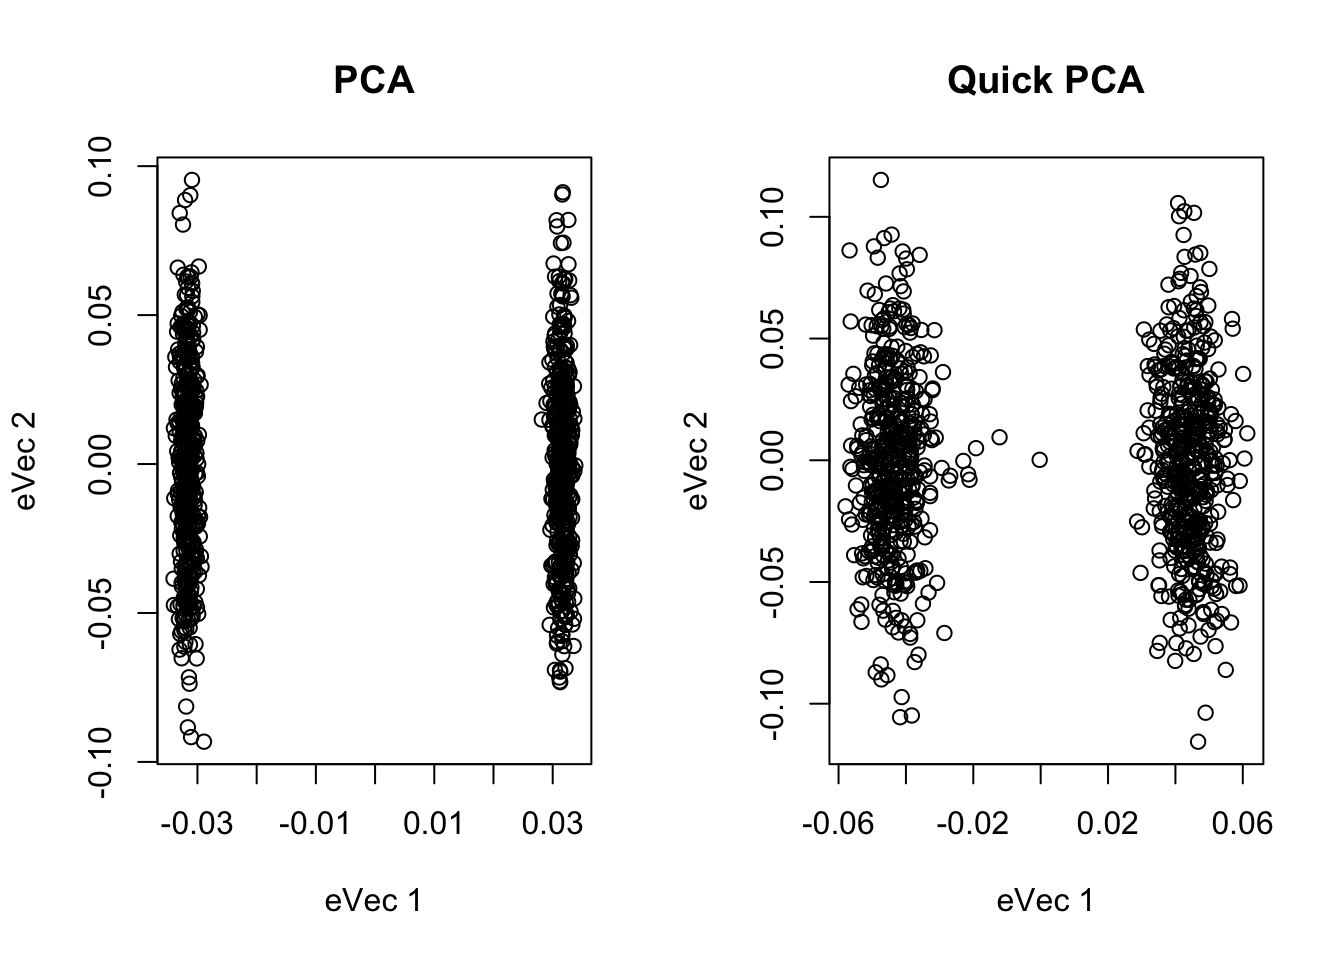
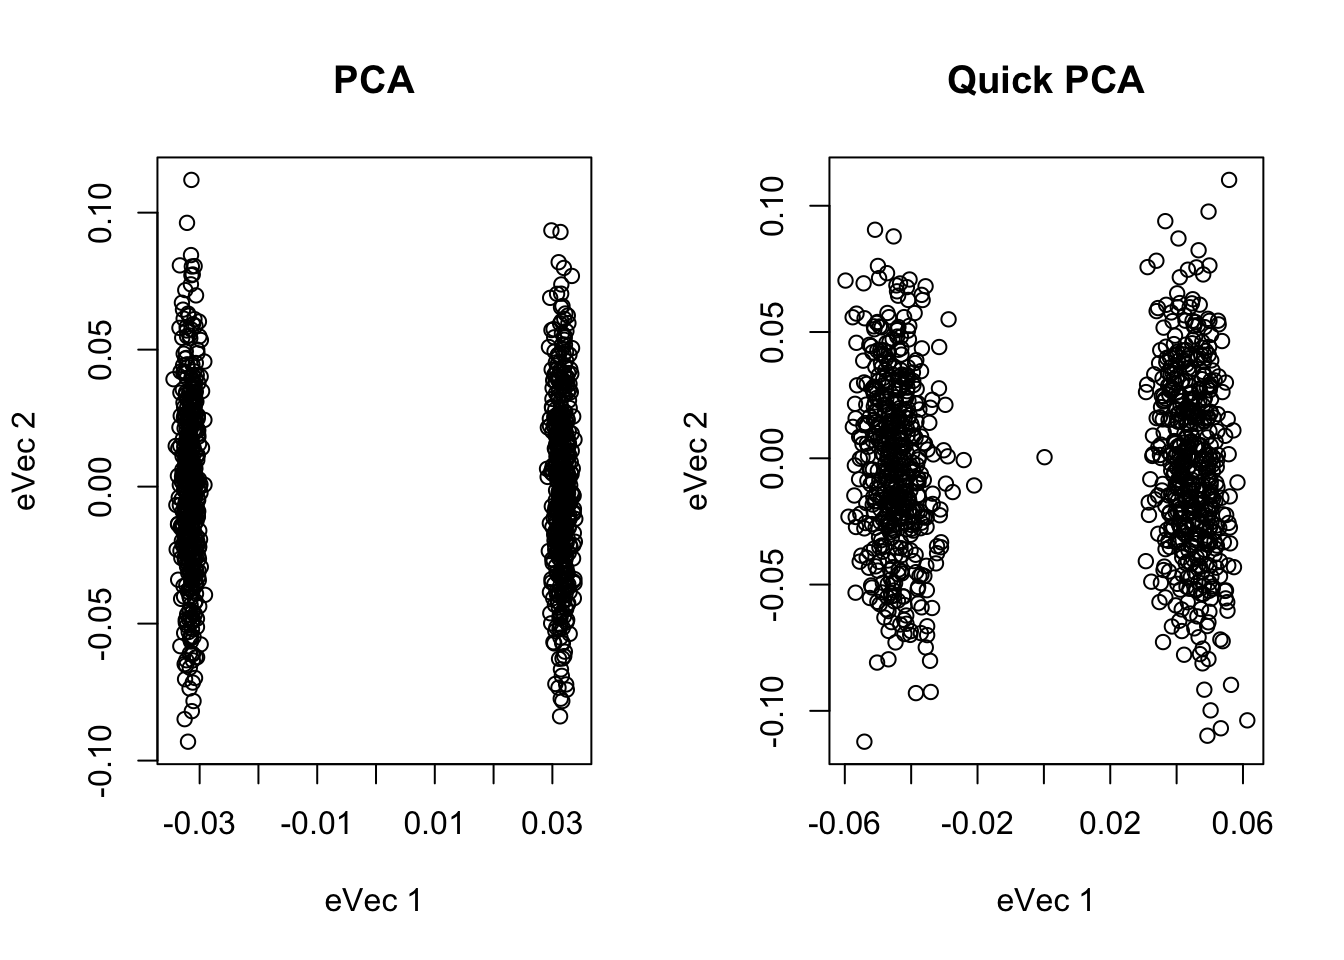
quick pca updated

diff --git a/app-1.html b/app-1.html
@@ -25,15 +25,15 @@
 <meta name="author" content="Guo-Bo Chen [chen.guobo@foxmail.com]">
 
 
-<meta name="date" content="2019-10-16">
+<meta name="date" content="2019-10-29">
 
   <meta name="viewport" content="width=device-width, initial-scale=1">
   <meta name="apple-mobile-web-app-capable" content="yes">
   <meta name="apple-mobile-web-app-status-bar-style" content="black">
   
   
-<link rel="prev" href="IBD-fam.html">
-
+<link rel="prev" href="conclusion.html">
+<link rel="next" href="references.html">
 <script src="libs/jquery-2.2.3/jquery.min.js"></script>
 <link href="libs/gitbook-2.6.7/css/style.css" rel="stylesheet" />
 <link href="libs/gitbook-2.6.7/css/plugin-table.css" rel="stylesheet" />
@@ -210,7 +210,9 @@ code span.wa { color: #60a0b0; font-weight: bold; font-style: italic; } /* Warni
 <li class="chapter" data-level="9.1" data-path="IBD-fam.html"><a href="IBD-fam.html#he-association"><i class="fa fa-check"></i><b>9.1</b> HE association</a></li>
 <li class="chapter" data-level="9.2" data-path="IBD-fam.html"><a href="IBD-fam.html#ibd-table"><i class="fa fa-check"></i><b>9.2</b> IBD table</a></li>
 </ul></li>
-<li class="chapter" data-level="10" data-path="app-1.html"><a href="app-1.html#app-1"><i class="fa fa-check"></i><b>10</b> Appendix quick pca</a></li>
+<li class="chapter" data-level="10" data-path="app-2.html"><a href="app-2.html"><i class="fa fa-check"></i><b>10</b> Appendix quick pca</a><ul>
+<li class="chapter" data-level="10.1" data-path="app-2.html"><a href="app-2.html#quck-pca-method-for-snp-matrix"><i class="fa fa-check"></i><b>10.1</b> Quck PCA method for snp matrix</a></li>
+</ul></li>
 <li class="divider"></li>
 <li><a href="https://gc5k.github.io" target="blank">Published with bookdown</a></li>
 
@@ -232,75 +234,141 @@ code span.wa { color: #60a0b0; font-weight: bold; font-style: italic; } /* Warni
 
             <section class="normal" id="section-">
 <div id="app-1" class="section level1">
-<h1><span class="header-section-number">Chapter 10</span> Appendix quick pca</h1>
-<p>See PLoS ONE, 2014, 9:e93766</p>
-<pre class="sourceCode r"><code class="sourceCode r"><span class="kw">library</span>(MASS)</code></pre>
-<pre><code>## Warning: package &#39;MASS&#39; was built under R version 3.4.4</code></pre>
-<pre class="sourceCode r"><code class="sourceCode r">N=<span class="dv">1000</span> <span class="co">#sample size</span>
-M=<span class="dv">2000</span> <span class="co">#SNP</span>
-X=<span class="kw">matrix</span>(<span class="dv">0</span>, N, M) <span class="co">#SNP matrix</span>
+<h1><span class="header-section-number">Chapter 7</span> Appendix 1</h1>
+<div id="app:ld" class="section level2">
+<h2><span class="header-section-number">7.1</span> Notes on linkage disequilibrium</h2>
+<p>For the haplotypes, as tabulated below, consisting of locus 1, which has alleles <span class="math inline">\(A\)</span> and <span class="math inline">\(a\)</span>, and locus 2, which has alleles <span class="math inline">\(B\)</span> and <span class="math inline">\(b\)</span>,</p>
+<table>
+<thead>
+<tr class="header">
+<th align="center"></th>
+<th align="center"><span class="math inline">\(B\)</span></th>
+<th align="center"><span class="math inline">\(b\)</span></th>
+<th align="center"></th>
+</tr>
+</thead>
+<tbody>
+<tr class="odd">
+<td align="center"><span class="math inline">\(A\)</span></td>
+<td align="center"><span class="math inline">\(P_{AB}=P_A \times P_B + D\)</span></td>
+<td align="center"><span class="math inline">\(P_{Ab}=P_A \times P_b - D\)</span></td>
+<td align="center"><span class="math inline">\(P_A\)</span></td>
+</tr>
+<tr class="even">
+<td align="center"><span class="math inline">\(a\)</span></td>
+<td align="center"><span class="math inline">\(P_{aB}=P_a \times P_B - D\)</span></td>
+<td align="center"><span class="math inline">\(P_{ab}=P_a \times P_b + D\)</span></td>
+<td align="center"><span class="math inline">\(P_a\)</span></td>
+</tr>
+<tr class="odd">
+<td align="center"></td>
+<td align="center"><span class="math inline">\(P_B\)</span></td>
+<td align="center"><span class="math inline">\(P_b\)</span></td>
+<td align="center"></td>
+</tr>
+</tbody>
+</table>
+<p>It is a typical <span class="math inline">\(2\times2\)</span> contingency table, once one of these four cells is fixed, other three are all known. Consequently, we can implement Fisher’s Exact test for this table.
+However, given the current biotechnology, <span class="math inline">\(D\)</span> is often unknown. But given the correlation, <span class="math inline">\(\rho_{1,2}\)</span>, of a pair of markers, we know that
+<span class="math display">\[\rho_{1,2}=\frac{D_{1,2}}{\sqrt{P_AP_aP_BP_b}}\]</span></p>
+<p>In simulation, it is very easy to simulate LD given the correlation.</p>
+<p>Calculate <span class="math inline">\(D_{1,2}=\rho_{1,2}\sqrt{P_AP_aP_BP_b}\)</span> first.</p>
+<p>Depending on the allele at locus 1, the probabilities of observing allele <span class="math inline">\(B\)</span> and <span class="math inline">\(b\)</span> are <span class="math inline">\(P(B|A)=\frac{P_{AB}}{P_{A}} =\frac{P_A\times P_B+D}{P_A}\)</span>, <span class="math inline">\(P(b|A)=1-P(B|A)\)</span>, <span class="math inline">\(P(b|a)=\frac{P_{ab}}{P_a} =\frac{P_a\times P_b+D}{P_a}\)</span>, and <span class="math inline">\(P(B|a)=1-P(B|a)\)</span>, respectively. So, the recombination can be defined as <span class="math inline">\(\frac{P(B|A)}{P(B|A) + P(b|A)}=P_B + \frac{D}{P_A}\)</span>.</p>
+</div>
+<div id="the-maximal-value-rho_ab" class="section level2">
+<h2><span class="header-section-number">7.2</span> The maximal value <span class="math inline">\(\rho_{AB}\)</span></h2>
+<p>Assuming <span class="math inline">\(P_A \leq P_B \leq 0.5\)</span>, the maximal of <span class="math inline">\(\rho_{l_1l_2}\)</span> reaches when allele <span class="math inline">\(A\)</span> is <span class="math inline">\(a\)</span> subset of <span class="math inline">\(B\)</span> linage so that <span class="math inline">\(P_{AB}=P_{A}\)</span>, because (see PLoS Genet 2(9): e142)
+<span class="math display">\[\rho_{1,2}=\frac{P_{AB}-P_{A}P_{B}}{\sqrt{P_A P_a P_B P_b}}=\frac{P_A(1-P_B)}{\sqrt{P_A P_a P_B P_b}}=\sqrt{\frac{P_AP_b}{P_B P_a}} \leq 1\]</span>
+The maxima of <span class="math inline">\(D=min(P_AP_b, P_BP_a)\)</span>.</p>
+<p>The conditional probability for a pair of biallelic loci</p>
+<table>
+<thead>
+<tr class="header">
+<th align="center"></th>
+<th align="center"><span class="math inline">\(a_l\)</span></th>
+<th align="center"><span class="math inline">\(A_l\)</span></th>
+<th align="center"></th>
+</tr>
+</thead>
+<tbody>
+<tr class="odd">
+<td align="center"><span class="math inline">\(a_k\)</span></td>
+<td align="center"><span class="math inline">\(r_{kl}=q_l + \frac{D_{kl}}{q_k}\)</span></td>
+<td align="center">1-<span class="math inline">\(r_{kl}=p_l - \frac{D_{kl}}{q_k}\)</span></td>
+<td align="center"><span class="math inline">\(q_k\)</span></td>
+</tr>
+<tr class="even">
+<td align="center"><span class="math inline">\(A_k\)</span></td>
+<td align="center">1-<span class="math inline">\(R_{kl}=q_l - \frac{D_{kl}}{p_k}\)</span></td>
+<td align="center"><span class="math inline">\(R_{kl}=p_l +\frac{D_{kl}}{p_k}\)</span></td>
+<td align="center"><span class="math inline">\(p_k\)</span></td>
+</tr>
+<tr class="odd">
+<td align="center"></td>
+<td align="center"><span class="math inline">\(q_l\)</span></td>
+<td align="center"><span class="math inline">\(p_l\)</span></td>
+<td align="center"></td>
+</tr>
+</tbody>
+</table>
+</div>
+<div id="ld-and-recombination-fraction" class="section level2">
+<h2><span class="header-section-number">7.3</span> LD and recombination fraction</h2>
+<p>It is sometimes useful to simulate <span class="math inline">\(F_2\)</span> population given known LD between any pair of markers. Below is the procedure for doing that.</p>
+<p>For a pair of loci, the correlation is the function of their recombination function
+<span class="math display">\[\rho_{1,2}=1-2c_{1,2}\]</span></p>
+<p>In addition, the correlation is also the function of LD
+<span class="math display">\[\rho_{1,2}=\frac{D_{1,2}}{\sqrt{P_AP_aP_BP_b}}\]</span></p>
+<p>So given the allele frequency of 0.5 and the markers are evenly distributed, <span class="math inline">\(c_{1,2}=0.5-2D_{1,2}\)</span>, and their corresponding genetic distance is <span class="math inline">\(d_{1,2}=-\frac{1}{2}ln(1-2c_{1,2})=-\frac{1}{2}ln(4D_{1,2})\)</span>
+given <code>Haldane map function</code>.</p>
+<p>Under the Haldane map function, the recombination between locus 1 and 3 is <span class="math inline">\(c_{1,3}=\frac{1}{2}[1-e^{-2(d_{1,2}+d_{2,3})}]=\frac{1}{2}[1-e^{2ln(4D_{1,2})}]\)</span>
+Then the correlation between the locus 1 and 3 is <span class="math inline">\(\rho_{1,3}=1-2c_{1,3}=e^{2ln(4D_{1,2})}\)</span>
+And, their corresponding LD is
+<span class="math inline">\(D_{1,3}=\sqrt{P_AP_aP_BP_b}e^{ln(4D_{1,2})}=0.25e^{2ln(4D_{1,2})}\)</span></p>
+<p>In general, <span class="math inline">\(D_{l_1l_2}=0.25e^{|l_1-l_2|ln(4D_{1,2})}\)</span>.</p>
+<pre class="sourceCode r"><code class="sourceCode r">A =<span class="st"> </span><span class="kw">seq</span>(<span class="fl">0.01</span>, <span class="fl">0.5</span>, <span class="fl">0.01</span>)
+B =<span class="st"> </span><span class="kw">seq</span>(<span class="fl">0.01</span>, <span class="fl">0.5</span>, <span class="fl">0.01</span>)
 
-<span class="co">#simulating snp</span>
-<span class="cf">for</span>(i <span class="cf">in</span> <span class="dv">1</span><span class="op">:</span>M) {
-  p1=<span class="kw">runif</span>(<span class="dv">1</span>, <span class="fl">0.1</span>, <span class="fl">0.9</span>)
-  p2=<span class="dv">1</span><span class="op">-</span>p1
-  X[<span class="dv">1</span><span class="op">:</span>(N<span class="op">/</span><span class="dv">2</span>),i]=<span class="kw">rbinom</span>(N<span class="op">/</span><span class="dv">2</span>, <span class="dv">2</span>, p1)
-  X[(N<span class="op">/</span><span class="dv">2</span><span class="op">+</span><span class="dv">1</span>)<span class="op">:</span>N,i]=<span class="kw">rbinom</span>(N<span class="op">/</span><span class="dv">2</span>, <span class="dv">2</span>, p2)
-}
+C =<span class="st"> </span><span class="fl">0.8</span>
+M =<span class="st"> </span><span class="kw">matrix</span>(<span class="dv">0</span>, <span class="kw">length</span>(A), <span class="kw">length</span>(B))
+<span class="kw">plot</span>(<span class="dt">x =</span> <span class="ot">NULL</span>, <span class="dt">y =</span> <span class="ot">NULL</span>, <span class="dt">xlim =</span> <span class="kw">c</span>(<span class="dv">0</span>, <span class="fl">0.5</span>), <span class="dt">ylim =</span> <span class="kw">c</span>(<span class="dv">0</span>, <span class="fl">0.5</span>), <span class="dt">xlab =</span> <span class="st">&quot;MAF Locus 1&quot;</span>, 
+    <span class="dt">ylab =</span> <span class="st">&quot;MAF Locus 2&quot;</span>, <span class="dt">main =</span> <span class="st">&quot;the relationship between D&quot;</span>)
+<span class="cf">for</span> (i <span class="cf">in</span> <span class="dv">1</span><span class="op">:</span><span class="kw">length</span>(A)) {
+    <span class="cf">for</span> (j <span class="cf">in</span> <span class="dv">1</span><span class="op">:</span><span class="kw">length</span>(B)) {
+        M[i, j] =<span class="st"> </span>C <span class="op">*</span><span class="st"> </span><span class="kw">sqrt</span>(A[i] <span class="op">*</span><span class="st"> </span>(<span class="dv">1</span> <span class="op">-</span><span class="st"> </span>A[i]) <span class="op">*</span><span class="st"> </span>B[j] <span class="op">*</span><span class="st"> </span>(<span class="dv">1</span> <span class="op">-</span><span class="st"> </span>B[j]))
+        <span class="kw">points</span>(A[i], B[j], <span class="dt">col =</span> <span class="kw">rgb</span>(M[i, j]<span class="op">/</span><span class="fl">0.2</span>, <span class="dt">green =</span> <span class="dv">0</span>, <span class="dt">blue =</span> <span class="dv">0</span>), <span class="dt">pch =</span> <span class="dv">16</span>, 
+            <span class="dt">cex =</span> <span class="fl">0.3</span>)
+    }
+}</code></pre>
+<p><img src="EigenGWAS_files/figure-html/ld-1.png" width="672" /></p>
+</div>
+<div id="f_st-1" class="section level2">
+<h2><span class="header-section-number">7.4</span> <span class="math inline">\(F_{st}\)</span></h2>
+<p>There are three commonly used <span class="math inline">\(F_{st}\)</span> (see method section in Bhatia, Genome Res, 2013, 23:1514-21),</p>
+<p><strong>1 Weir &amp; Cockerham’s</strong> <span class="math inline">\(F_{st}^{WC}\)</span></p>
+<p>Citation: Weir &amp; Cockerham, <span class="math inline">\(Evolution\)</span>, 1984, 38:1358-1370</p>
+<p>The estimator is</p>
+<p><span class="math inline">\(\hat{F}_{st}^{WC}=1-\frac{2\frac{n_1n_2}{n_1+n_2}\frac{1}{n_1+n_2-2}[n_1\tilde{p}_1(1-\tilde{p}_1)+n_2\tilde{p}_2(1-\tilde{p}_2))]}{\frac{n_1n_2}{n_1+n_2}(\tilde{p_1}-\tilde{p_2})^2+(2\frac{n_1n_2}{n_1+n_2}-1)\frac{1}{n_1+n_2-2}[n_1\tilde{p}_1(1-\tilde{p}_1)+n_2\tilde{p}_2(1-\tilde{p}_2)]}\)</span></p>
+<p><strong>2 Nei’s</strong> <span class="math inline">\(F_{st}^{Nei}\)</span></p>
+<p>Citation: Nei M. 1986. Definition and estimation of fixation indices. <span class="math inline">\(Evolution\)</span>, 40: 643???645.</p>
+<p>The estimator is</p>
+<p><span class="math inline">\(\hat{F}_{st}^{Nei}=\frac{(\tilde{p}_1-\tilde{p}_2)^2}{2\tilde{p}(1-\tilde{p})}\)</span></p>
+<p>in which <span class="math inline">\(\tilde{p}=\frac{\tilde{p}_1+\tilde{p}_2}{2}\)</span>.</p>
+<p><strong>3 Hudson’s</strong> <span class="math inline">\(F_{st}^{Hudson}\)</span></p>
+<p>Citation: Hudson et al, Estimating of levels of gene flow from DNA sequence data. <span class="math inline">\(Genetics\)</span>, 132:207-11</p>
+<p><span class="math inline">\(F_{st}^{Hudson} = 1-\frac{H_w}{H_b}\)</span></p>
+<p>and its estimator is</p>
+<p><span class="math inline">\(\hat{F}_{st}^{Hudson} = \frac{(\tilde{p}_1-\tilde{p}_2)^2-\frac{\tilde{p}_1(1-\tilde{p}_1)}{n_1-1}-\frac{\tilde{p}_2(1-\tilde{p}_2)}{n_2-1}}{\tilde{p}_1(1-\tilde{p}_1)+\tilde{p}_2(1-\tilde{p}_2)}\)</span></p>
 
-<span class="co">#conventional PCA</span>
-sX=<span class="kw">scale</span>(X)
-G=sX<span class="op">%*%</span><span class="kw">t</span>(sX)
-Geg=<span class="kw">eigen</span>(G)
-<span class="kw">plot</span>(Geg<span class="op">$</span>vectors[,<span class="dv">1</span>], Geg<span class="op">$</span>vectors[,<span class="dv">2</span>])</code></pre>
-<p><img src="EigenGWAS_files/figure-html/quick-pca-1.png" width="672" /></p>
-<pre class="sourceCode r"><code class="sourceCode r"><span class="co">#quick pca</span>
-dm=<span class="dv">30</span>
-sg=<span class="kw">matrix</span>(<span class="dv">0</span>,dm,dm)
-<span class="kw">diag</span>(sg)=<span class="dv">1</span>
-R=<span class="kw">mvrnorm</span>(M, <span class="kw">rep</span>(<span class="dv">0</span>, dm), <span class="dt">Sigma=</span>sg)
-xt=sX<span class="op">%*%</span>R
-ss=<span class="kw">apply</span>(xt<span class="op">^</span><span class="dv">2</span>, <span class="dv">2</span>, sum)
-Y=<span class="kw">matrix</span>(<span class="dv">0</span>, <span class="kw">nrow</span>(xt), <span class="kw">ncol</span>(xt))
-<span class="cf">for</span>(i <span class="cf">in</span> <span class="dv">1</span><span class="op">:</span><span class="kw">length</span>(ss)) {
-  Y[,i]=xt[,i]<span class="op">/</span>ss[i]
-}
-
-XtX=sX<span class="op">%*%</span><span class="kw">t</span>(sX)
-
-maxiter=<span class="dv">10</span>
-<span class="cf">for</span>(it <span class="cf">in</span> <span class="dv">1</span><span class="op">:</span>maxiter) {
-  xxt=XtX<span class="op">%*%</span>Y
-  ss1=<span class="kw">apply</span>(xxt<span class="op">^</span><span class="dv">2</span>, <span class="dv">2</span>, sum)
-  
-  <span class="cf">for</span>(i <span class="cf">in</span> <span class="dv">1</span><span class="op">:</span><span class="kw">length</span>(ss1)) {
-    Y[,i]=xxt[,i]<span class="op">/</span>ss1[i]
-  }
-}
-
-QR=<span class="kw">qr.default</span>(Y)
-B=<span class="kw">t</span>(QR<span class="op">$</span>qr)<span class="op">%*%</span>sX
-S=B<span class="op">%*%</span><span class="kw">t</span>(B)
-
-eg=<span class="kw">eigen</span>(S)
-
-U=QR<span class="op">$</span>qr <span class="op">%*%</span><span class="st"> </span>eg<span class="op">$</span>vectors
-D=<span class="kw">sqrt</span>(eg<span class="op">$</span>values<span class="op">/</span>(N<span class="dv">-1</span>))  
-P=U<span class="op">*</span>D
-
-<span class="kw">par</span>(<span class="dt">mfrow =</span> <span class="kw">c</span>(<span class="dv">1</span>,<span class="dv">2</span>))
-<span class="kw">plot</span>(<span class="dt">main=</span><span class="st">&quot;PCA&quot;</span>, <span class="dt">xlab=</span><span class="st">&quot;eVec 1&quot;</span>, <span class="dt">ylab=</span><span class="st">&quot;eVec 2&quot;</span>, Geg<span class="op">$</span>vectors[,<span class="dv">1</span>], Geg<span class="op">$</span>vectors[,<span class="dv">2</span>])
-<span class="kw">plot</span>(<span class="dt">main=</span><span class="st">&quot;Quick PCA&quot;</span>, <span class="dt">xlab=</span><span class="st">&quot;eVec 1&quot;</span>, <span class="dt">ylab=</span><span class="st">&quot;eVec 2&quot;</span>, U[,<span class="dv">1</span>], U[,<span class="dv">2</span>])</code></pre>
-<p><img src="EigenGWAS_files/figure-html/quick-pca-2.png" width="672" /></p>
-
+</div>
 </div>
             </section>
 
           </div>
         </div>
       </div>
-<a href="IBD-fam.html" class="navigation navigation-prev navigation-unique" aria-label="Previous page"><i class="fa fa-angle-left"></i></a>
-
+<a href="conclusion.html" class="navigation navigation-prev " aria-label="Previous page"><i class="fa fa-angle-left"></i></a>
+<a href="references.html" class="navigation navigation-next " aria-label="Next page"><i class="fa fa-angle-right"></i></a>
     </div>
   </div>
 <script src="libs/gitbook-2.6.7/js/app.min.js"></script>

diff --git a/app-2.html b/app-2.html
@@ -25,7 +25,7 @@
 <meta name="author" content="Guo-Bo Chen [chen.guobo@foxmail.com]">
 
 
-<meta name="date" content="2019-10-28">
+<meta name="date" content="2019-10-29">
 
   <meta name="viewport" content="width=device-width, initial-scale=1">
   <meta name="apple-mobile-web-app-capable" content="yes">
@@ -210,7 +210,9 @@ code span.wa { color: #60a0b0; font-weight: bold; font-style: italic; } /* Warni
 <li class="chapter" data-level="9.1" data-path="IBD-fam.html"><a href="IBD-fam.html#he-association"><i class="fa fa-check"></i><b>9.1</b> HE association</a></li>
 <li class="chapter" data-level="9.2" data-path="IBD-fam.html"><a href="IBD-fam.html#ibd-table"><i class="fa fa-check"></i><b>9.2</b> IBD table</a></li>
 </ul></li>
-<li class="chapter" data-level="10" data-path="app-2.html"><a href="app-2.html"><i class="fa fa-check"></i><b>10</b> Appendix quick pca</a></li>
+<li class="chapter" data-level="10" data-path="app-2.html"><a href="app-2.html"><i class="fa fa-check"></i><b>10</b> Appendix quick pca</a><ul>
+<li class="chapter" data-level="10.1" data-path="app-2.html"><a href="app-2.html#quck-pca-method-for-snp-matrix"><i class="fa fa-check"></i><b>10.1</b> Quck PCA method for snp matrix</a></li>
+</ul></li>
 <li class="divider"></li>
 <li><a href="https://gc5k.github.io" target="blank">Published with bookdown</a></li>
 
@@ -233,6 +235,8 @@ code span.wa { color: #60a0b0; font-weight: bold; font-style: italic; } /* Warni
             <section class="normal" id="section-">
 <div id="app-2" class="section level1">
 <h1><span class="header-section-number">Chapter 10</span> Appendix quick pca</h1>
+<div id="quck-pca-method-for-snp-matrix" class="section level2">
+<h2><span class="header-section-number">10.1</span> Quck PCA method for snp matrix</h2>
 <p>See PLoS ONE, 2014, 9:e93766</p>
 <pre class="sourceCode r"><code class="sourceCode r"><span class="kw">library</span>(MASS)</code></pre>
 <pre><code>## Warning: package &#39;MASS&#39; was built under R version 3.4.4</code></pre>
@@ -294,8 +298,9 @@ P=U<span class="op">*</span>D
 <span class="kw">plot</span>(<span class="dt">main=</span><span class="st">&quot;Quick PCA&quot;</span>, <span class="dt">xlab=</span><span class="st">&quot;eVec 1&quot;</span>, <span class="dt">ylab=</span><span class="st">&quot;eVec 2&quot;</span>, U[,<span class="dv">1</span>], U[,<span class="dv">2</span>])</code></pre>
 <p><img src="EigenGWAS_files/figure-html/quick-pca-1.png" width="672" /></p>
 <pre class="sourceCode r"><code class="sourceCode r"><span class="kw">cor</span>(Geg<span class="op">$</span>vectors[,<span class="dv">1</span>], U[,<span class="dv">1</span>])</code></pre>
-<pre><code>## [1] 0.991082</code></pre>
+<pre><code>## [1] 0.9916157</code></pre>
 
+</div>
 </div>
             </section>
 

diff --git a/index.html b/index.html
@@ -25,7 +25,7 @@
 <meta name="author" content="Guo-Bo Chen [chen.guobo@foxmail.com]">
 
 
-<meta name="date" content="2019-10-28">
+<meta name="date" content="2019-10-29">
 
   <meta name="viewport" content="width=device-width, initial-scale=1">
   <meta name="apple-mobile-web-app-capable" content="yes">
@@ -147,7 +147,9 @@
 <li class="chapter" data-level="9.1" data-path="IBD-fam.html"><a href="IBD-fam.html#he-association"><i class="fa fa-check"></i><b>9.1</b> HE association</a></li>
 <li class="chapter" data-level="9.2" data-path="IBD-fam.html"><a href="IBD-fam.html#ibd-table"><i class="fa fa-check"></i><b>9.2</b> IBD table</a></li>
 </ul></li>
-<li class="chapter" data-level="10" data-path="app-2.html"><a href="app-2.html"><i class="fa fa-check"></i><b>10</b> Appendix quick pca</a></li>
+<li class="chapter" data-level="10" data-path="app-2.html"><a href="app-2.html"><i class="fa fa-check"></i><b>10</b> Appendix quick pca</a><ul>
+<li class="chapter" data-level="10.1" data-path="app-2.html"><a href="app-2.html#quck-pca-method-for-snp-matrix"><i class="fa fa-check"></i><b>10.1</b> Quck PCA method for snp matrix</a></li>
+</ul></li>
 <li class="divider"></li>
 <li><a href="https://gc5k.github.io" target="blank">Published with bookdown</a></li>
 
@@ -171,7 +173,7 @@
 <div id="header">
 <h1 class="title">EigenGWAS theory and application</h1>
 <p class="author"><em>Guo-Bo Chen [<a href="mailto:chen.guobo@foxmail.com" class="email">chen.guobo@foxmail.com</a>]</em></p>
-<p class="date"><em>2019-10-28</em></p>
+<p class="date"><em>2019-10-29</em></p>
 </div>
 <div id="ch:basis" class="section level1">
 <h1><span class="header-section-number">Chapter 1</span> EigenGWAS basis</h1>
